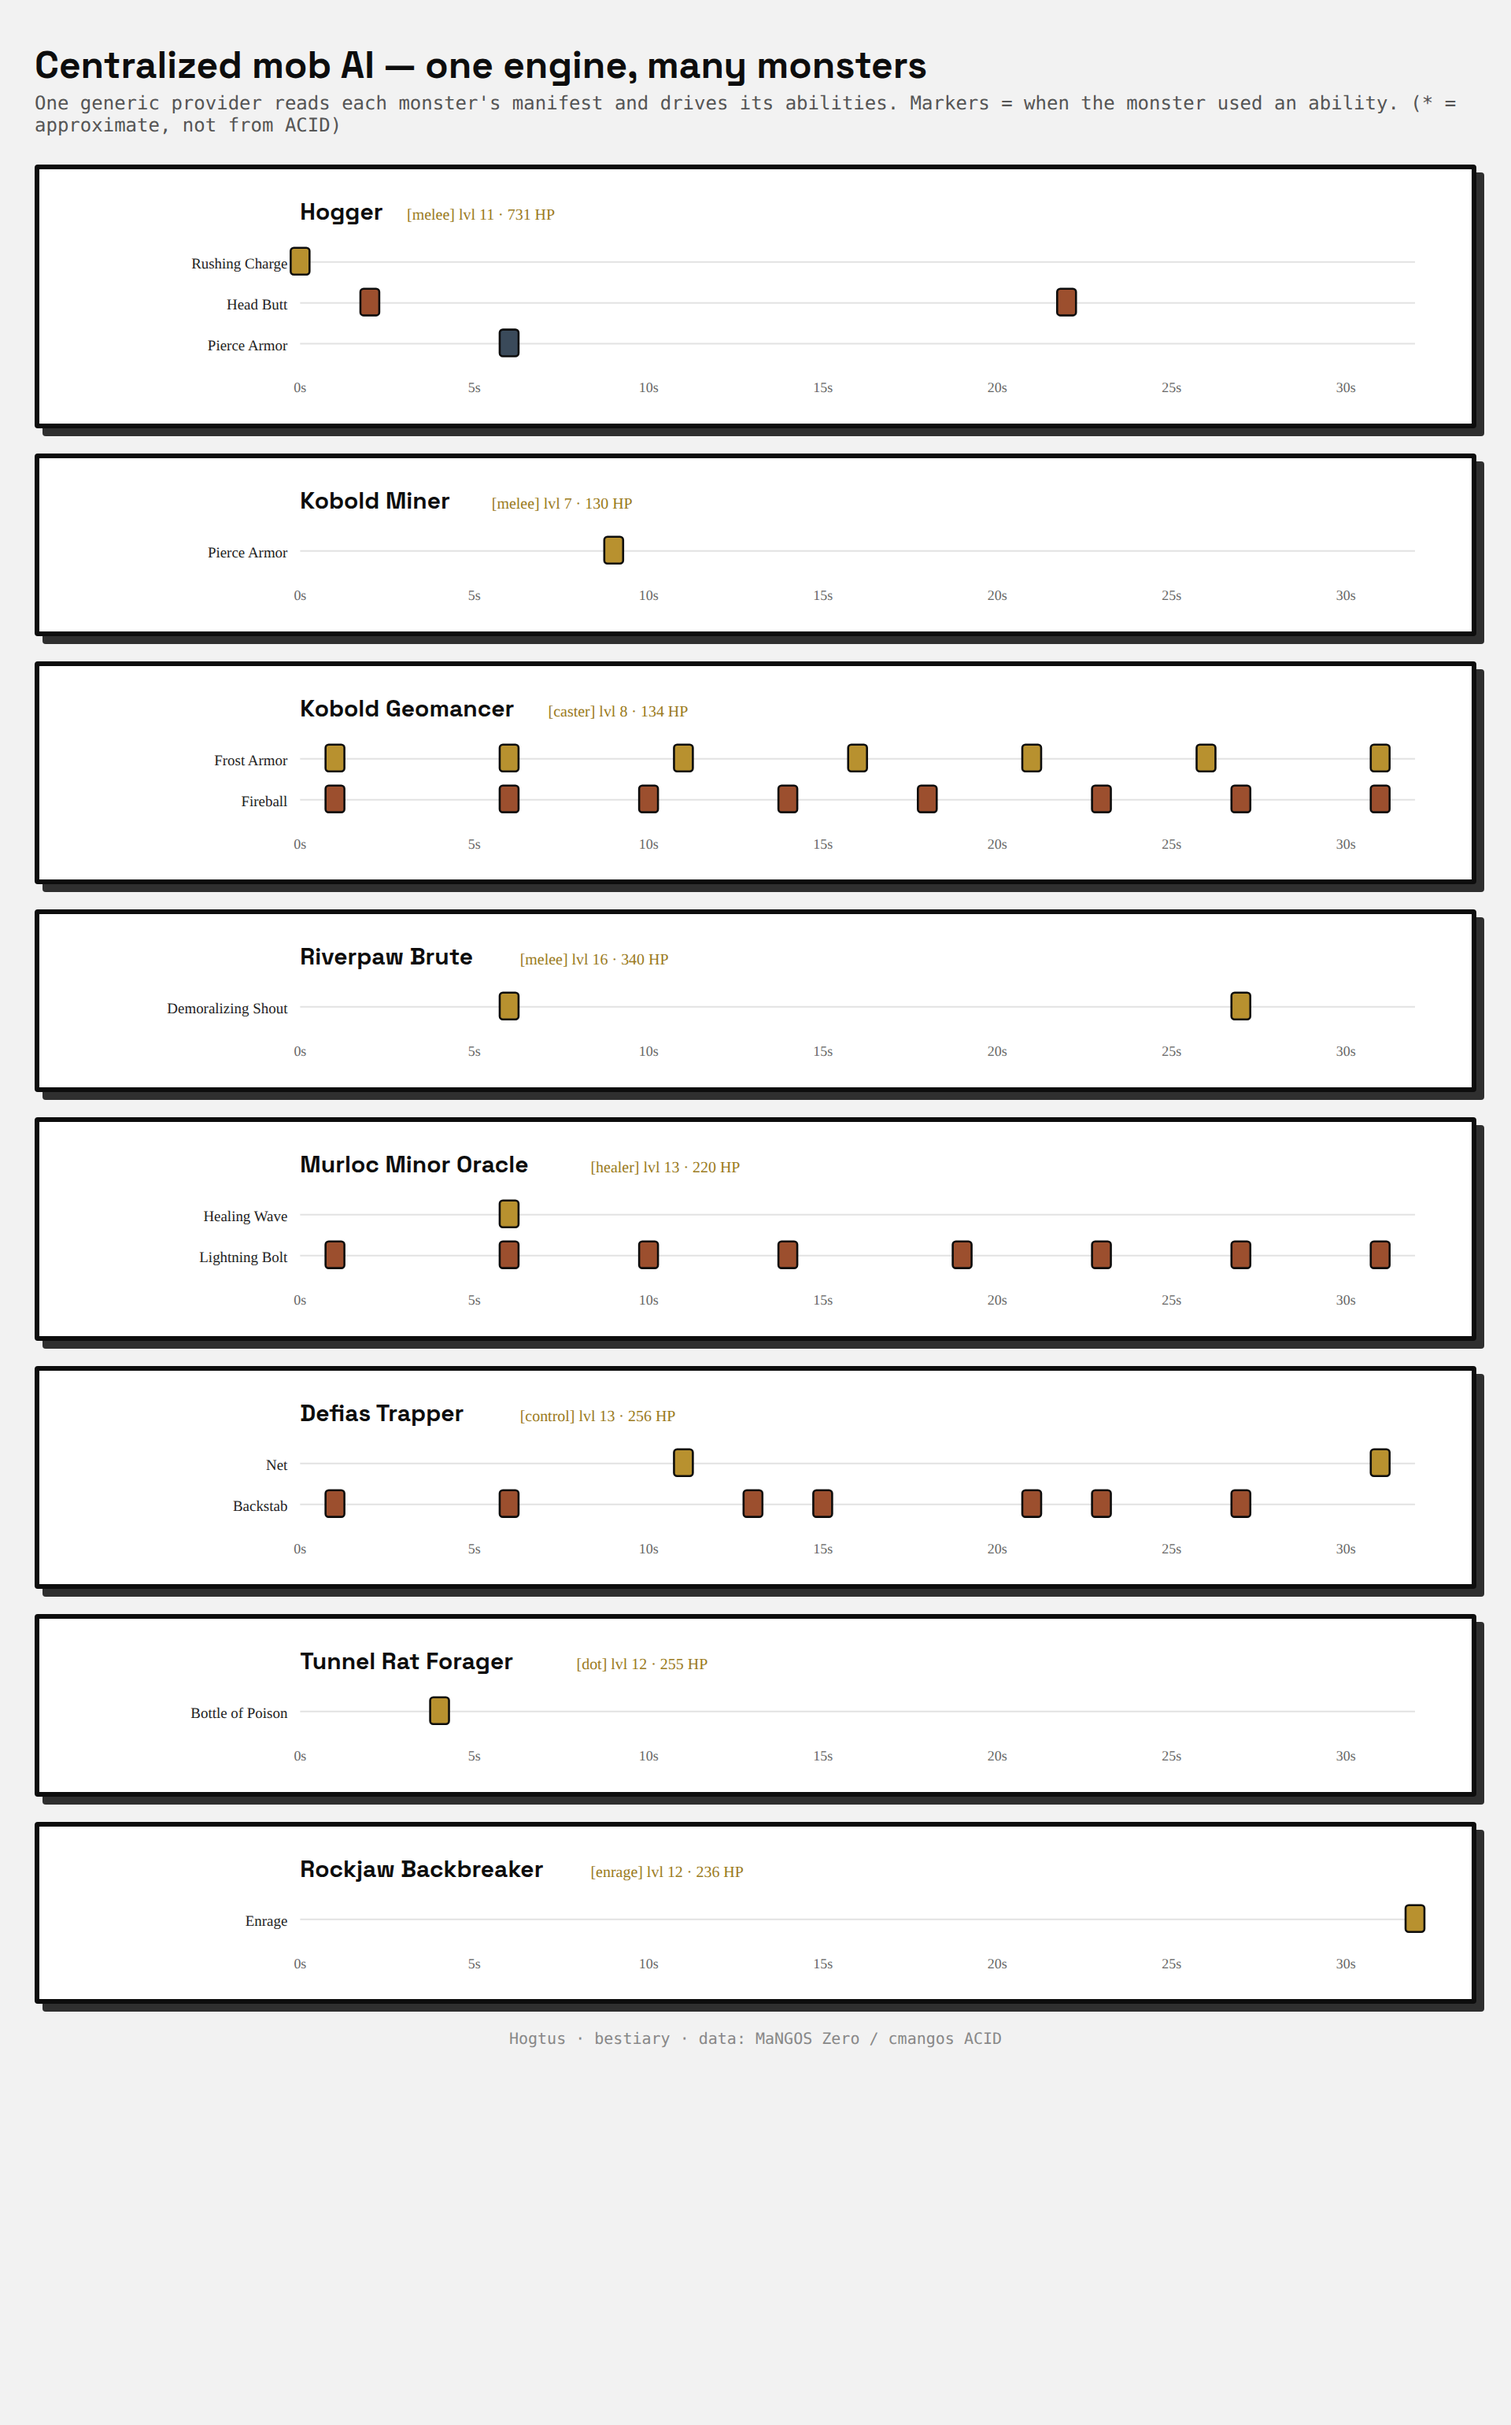
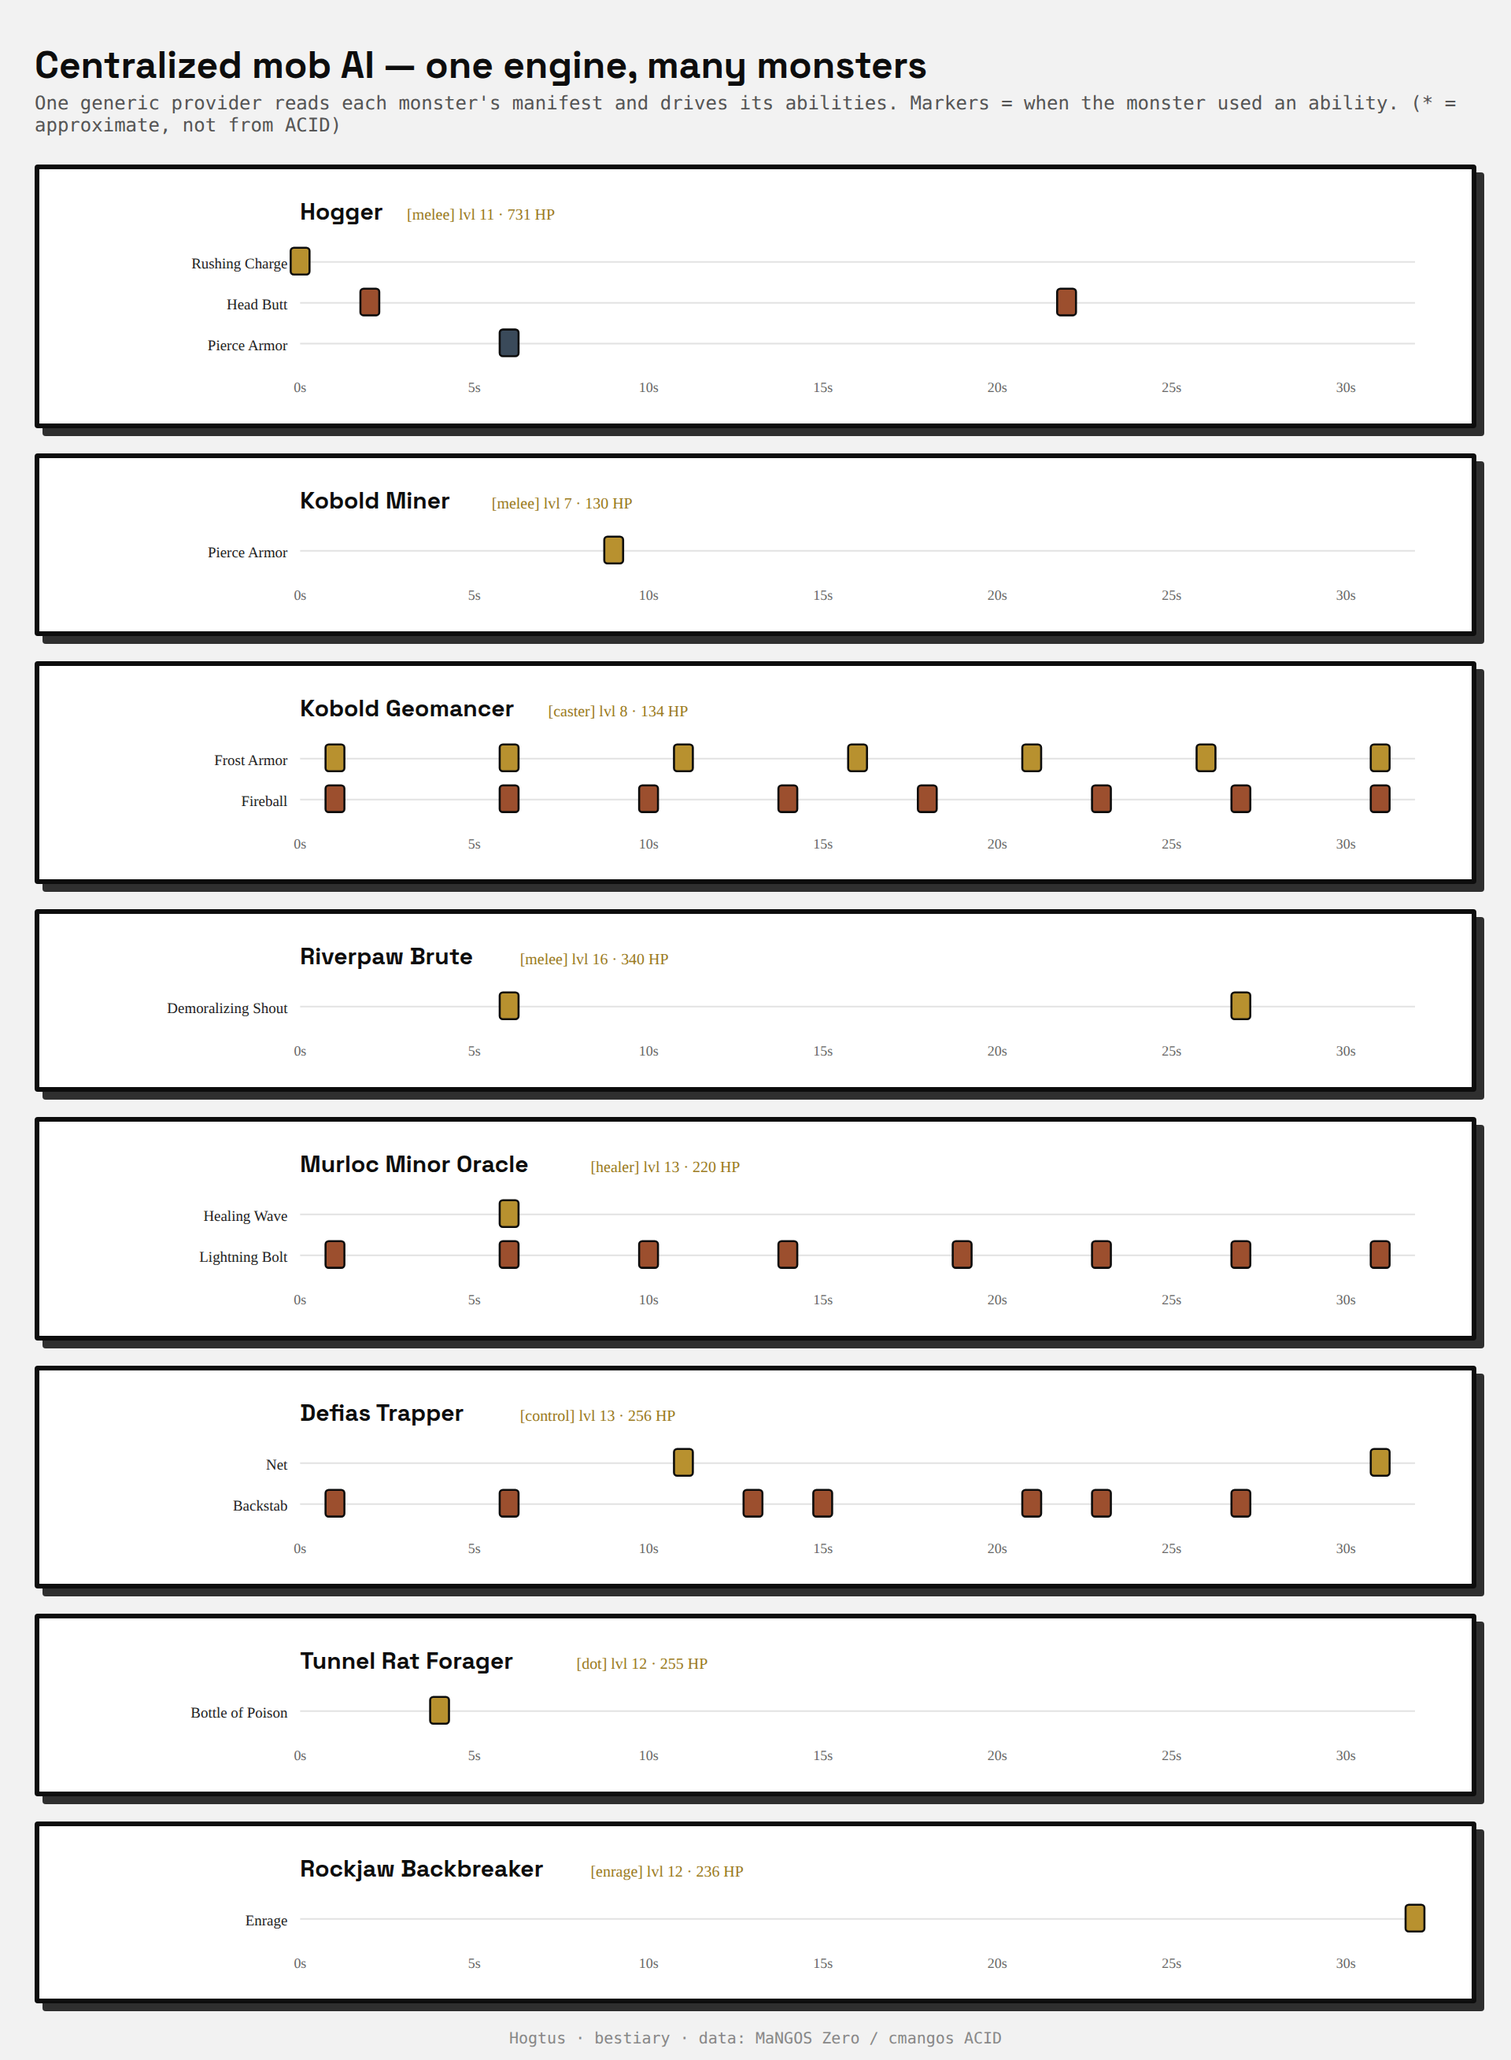
polish: trim chart bottom whitespace, move bestiary render into its section, widen charts to 90%

Changed region(s): [[0.0, 0.0, 1.0, 1.0], [0.9062, 0.5881, 0.9375, 0.619]]

diff --git a/src/content/articles/fresh-meat-for-small-models.md b/src/content/articles/fresh-meat-for-small-models.md
@@ -114,6 +114,11 @@ First, some low-level cannon fodder. They are not much individually and should b
 </tbody>
 </table>
 
+<figure class="figure">
+<img src="/assets/images/hogtus-bestiary.png" alt="The reconstructed low-level bestiary rendered as mob cards" style="width:90%">
+<figcaption><em>The reconstructed low-level bestiary: one generic engine driving each mob's abilities over a fight.</em></figcaption>
+</figure>
+
 For contrast, I have also decided to include an example of an adversary with a slightly larger arsenal of abilities i.e. a raid boss and for this purpose I have chosen the one, which I remember to be one of my raiding challenges from my Burning Crusade phase, where weeks of gearing up and polishing up raid tactics with my guild finally paid off. Plus, the whole fight looked cool.
 
 #### Kael'thas Sunstrider (the boss)
@@ -128,11 +133,6 @@ The one and only blood-elf prince - Kael'thas. Back then, he was the reason I le
 **Stats**: level 70 · raid boss · caster.
 
 **Kit (solo phase)**: Fireball (the 2.4s filler) · Mind Control · Arcane Disruption · Flame Strike · Summon Phoenix · Shock Barrier. Six abilities on their own overlapping cooldowns.
-
-<figure class="figure">
-<img src="/assets/images/hogtus-bestiary.png" alt="The reconstructed low-level bestiary rendered as mob cards" style="max-width:min(100%,700px)">
-<figcaption><em>The reconstructed low-level bestiary: one generic engine driving each mob's abilities over a fight.</em></figcaption>
-</figure>
 
 ## Sketching out the battle map
 
@@ -178,7 +178,7 @@ The **Cactus Needle (45M)**, the phone-sized one, is the cautionary tale. It pro
 However, the deterministic brain is basically free (a handful of arithmetic and a dice-roll) and it happily churns through the better part of **a million decisions a second** on a four-core box. The model brains crawl by comparison: a few decisions per *second*, and a single decision costs on the order of **a hundred thousand times** more compute. Nobody should ship a 350M transformer to make a gnoll headbutt you. That was never the point, but it does sharpen the question of where a model could *possibly* earn its keep.
 
 <figure class="figure">
-<img src="/assets/images/hogtus-decision-space.png" alt="Decision space per mob: Hogger 0%, Kael'thas about one tick in twenty" style="max-width:min(100%,640px)">
+<img src="/assets/images/hogtus-decision-space.png" alt="Decision space per mob: Hogger 0%, Kael'thas about one tick in twenty" style="width:90%">
 <figcaption><em>Decision space per mob: Hogger never offers a choice (0%), Kael'thas only about one tick in twenty.</em></figcaption>
 </figure>
 
@@ -189,7 +189,7 @@ It is because **Hogger almost never presents a choice.** His three abilities are
 So what happens during encounters where an engine hands the brain **two or more legal moves at once,** similar to how it is done during more sophisticated scripts of WoW boss fights?
 
 <figure class="figure">
-<img src="/assets/images/hogtus-kaelthas-gantt.png" alt="Kael'thas ability usage: fixed priority uses four of six spells, the model spreads across all six" style="max-width:min(100%,640px)">
+<img src="/assets/images/hogtus-kaelthas-gantt.png" alt="Kael'thas ability usage: fixed priority uses four of six spells, the model spreads across all six" style="width:90%">
 <figcaption><em>Same Kael'thas fight, same legal options: the fixed priority reaches for four of six spells; the model spreads across all six.</em></figcaption>
 </figure>
 
@@ -214,7 +214,7 @@ Its Healing Wave, pointless for a 1-on-1 duel, now does the thing it was actuall
 The engine still keeps an eye on the world's shared state (clock ticks, one snapshot everyone decides on, all the legality) and the healer's brain may only *propose* to heal a target the engine has already deemed valid: a friend, hurt enough, in range.
 
 <figure class="figure">
-<img src="/assets/images/hogtus-multimob.png" alt="Healing toggled off to on flips the player win-rate from 0.64 to about zero; the live SLM healer matches the deterministic rule with zero illegal heals" style="max-width:min(100%,700px)">
+<img src="/assets/images/hogtus-multimob.png" alt="Healing toggled off to on flips the player win-rate from 0.64 to about zero; the live SLM healer matches the deterministic rule with zero illegal heals" style="width:90%">
 <figcaption><em>Same three mobs, healing toggled off→on: a cooperative healer flips the player's win-rate from 0.64 to ~0. The live SLM healer (right) plays it like the deterministic rule, and heals illegally zero times.</em></figcaption>
 </figure>
 
@@ -243,7 +243,7 @@ A tank is not a big health bar that happens to stand in front; a tank is a creat
 The first thing the simulation told me was pretty much a given: a geared squad of three players **REMOVED** a handful of low-level trash, before anyone takes any considerable beating. It only becomes a fight when you throw a proper swarm at the - so I've pumped up the murlocs numbers so they come six at a time.
 
 <figure class="figure">
-<img src="/assets/images/hogtus-groupfight-gantt.png" alt="The murloc pack over one fight, coloured by who each mob is hitting; the swarm slides from the tank onto the healer" style="max-width:min(100%,760px)">
+<img src="/assets/images/hogtus-groupfight-gantt.png" alt="The murloc pack over one fight, coloured by who each mob is hitting; the swarm slides from the tank onto the healer" style="width:90%">
 <figcaption><em>The murloc pack over one fight, one row per mob, coloured by who it is hitting. The swarm opens on the tank and slides onto the healer as the healing piles up threat.</em></figcaption>
 </figure>
 
@@ -252,7 +252,7 @@ And then the fight did something I did not design and should have seen coming. W
 It spends most of the fight healing itself while the DPS burns the pack down behind it. Nobody wrote that behaviour. It falls straight out of threat, with a healer making large amounts of semi-passive threat. Exactly the sort of thing you only get to see once there is a group.
 
 <figure class="figure">
-<img src="/assets/images/hogtus-groupfight-targets.png" alt="One murloc's target through the fight: tank at the pull, healer under threat, DPS at the end" style="max-width:min(100%,760px)">
+<img src="/assets/images/hogtus-groupfight-targets.png" alt="One murloc's target through the fight: tank at the pull, healer under threat, DPS at the end" style="width:90%">
 <figcaption><em>One murloc's target through the fight: held on the tank at the pull, dragged onto the healer under threat, pulled to the DPS right at the end.</em></figcaption>
 </figure>
 
@@ -261,7 +261,7 @@ Here, at last, is the first place in the whole project where the healer's decisi
 Healing whoever is lowest keeps everyone standing; tunnel-visioning the tank does not. After a whole project of fights where the choice was cosmetic, the pack finally makes "whom do I save" a real question.
 
 <figure class="figure">
-<img src="/assets/images/hogtus-groupfight.png" alt="Average party survivors by healer policy, and the deterministic triage rule against a live SLM on identical seeds" style="max-width:min(100%,760px)">
+<img src="/assets/images/hogtus-groupfight.png" alt="Average party survivors by healer policy, and the deterministic triage rule against a live SLM on identical seeds" style="width:90%">
 <figcaption><em>Left: average party survivors by healer policy against the same swarm. Right: the deterministic triage rule against a live SLM on identical seeds.</em></figcaption>
 </figure>
 
@@ -284,7 +284,7 @@ I kept three things from the way the real game works: a cast is a state rather t
 The AoE had to be a real choice and not a free win, or the DPS would just press it forever. So it only helps at three or more targets, has its own cooldown, and it does less damage per target than a focused hit. Single-target still wins when there is one thing that has to die, and throwing an AoE spell to DPS down one enemy is pointless.
 
 <figure class="figure">
-<img src="/assets/images/hogtus-groupkits.png" alt="Party win-rate by what the DPS is allowed to do, and the deterministic priority against a live SLM on identical seeds" style="max-width:min(100%,760px)">
+<img src="/assets/images/hogtus-groupkits.png" alt="Party win-rate by what the DPS is allowed to do, and the deterministic priority against a live SLM on identical seeds" style="width:90%">
 <figcaption><em>Party win-rate by what the DPS is allowed to do, against the same swarm and casting Oracle, and the deterministic priority against a live SLM on identical seeds.</em></figcaption>
 </figure>
 
@@ -293,7 +293,7 @@ Grinding the murlocs down one at a time, with no AoE and no kick, wins four figh
 If we let the DPS throw some interrupts and it wins every time, denying all six of the Oracle's casts over a fight, keeping the "do not out-damage the enemy healer, interrupt it" rule from MMORPGs going strong.
 
 <figure class="figure">
-<img src="/assets/images/hogtus-groupkits-logic.png" alt="Same fight seed for seed: deterministic priority on top kicks every cast and AoEs, the live SLM below kicks some casts and never AoEs" style="max-width:min(100%,760px)">
+<img src="/assets/images/hogtus-groupkits-logic.png" alt="Same fight seed for seed: deterministic priority on top kicks every cast and AoEs, the live SLM below kicks some casts and never AoEs" style="width:90%">
 <figcaption><em>The same fight, seed for seed: the deterministic priority on top, the live SLM below. Each engine's DPS actions on the upper row, the Oracle's heal casts on the lower one.</em></figcaption>
 </figure>
 
